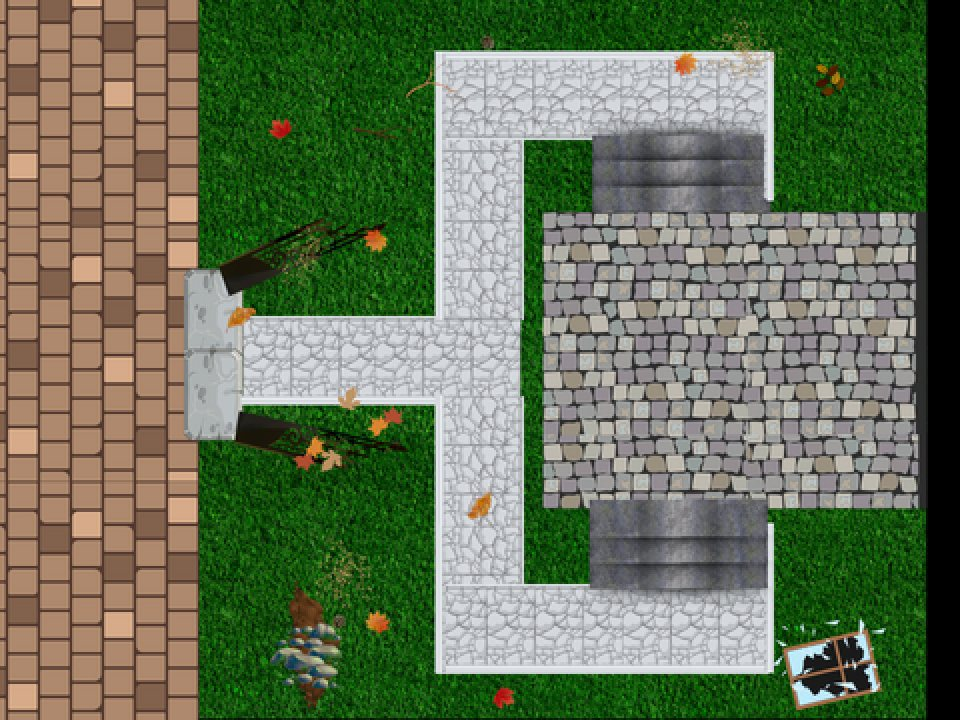
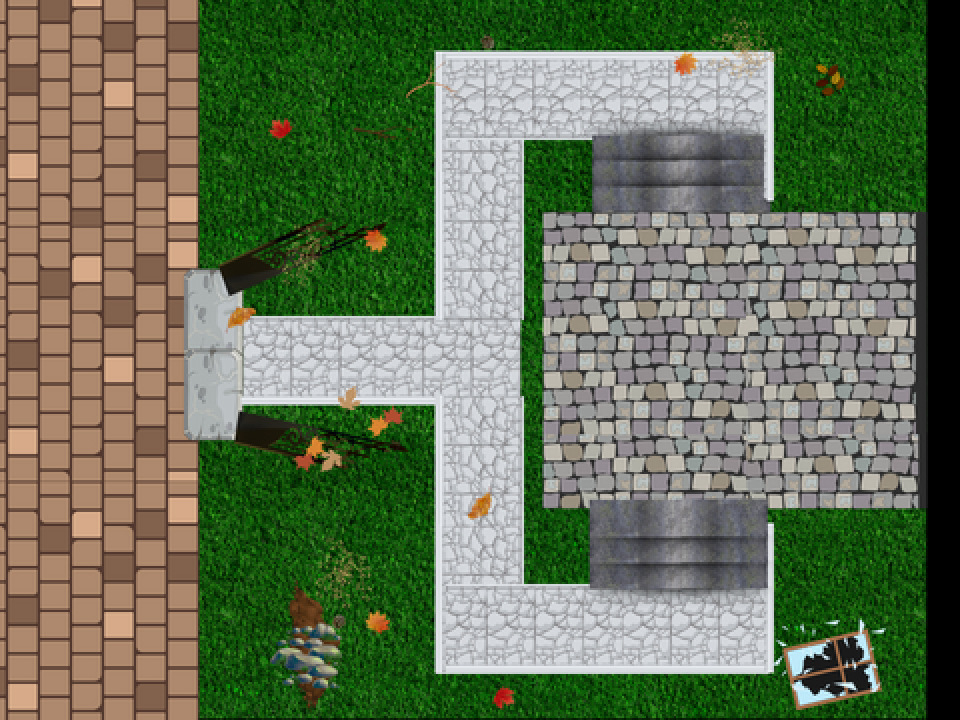
Sfondi più nitidi: JPG di qualità più alta, senza sottocampionamento del colore
Claude-Session: https://claude.ai/code/session_01DCoAoqz3TR9KuqDW3sa7M8

Changed region(s): [[0.375, 0.5806, 0.4062, 0.6111]]

diff --git a/js/gioco.js b/js/gioco.js
@@ -1055,6 +1055,7 @@
 
   function disegna(t) {
     ctx.setTransform(k, 0, 0, k, 0, 0);
+    ctx.imageSmoothingQuality = "high";
     ctx.fillStyle = "#000";
     ctx.fillRect(0, 0, W, H);
     if (stato === "titolo" || stato === "intro") { disegnaIntro(t); return; }

diff --git a/index.html b/index.html
@@ -131,6 +131,6 @@
   <script src="js/stanze.js?v=1"></script>
   <script src="js/maschere.js?v=1"></script>
   <script src="js/traduzioni.js?v=1"></script>
-  <script src="js/gioco.js?v=2"></script>
+  <script src="js/gioco.js?v=3"></script>
 </body>
 </html>

diff --git a/strumenti/estrai.py b/strumenti/estrai.py
@@ -55,10 +55,10 @@ def salva_png(im, nome):
     im.save(os.path.join(IMG, nome), optimize=True)
 
 
-def salva_jpg(im, nome, q=84):
+def salva_jpg(im, nome, q=93):
     sfondo = Image.new("RGB", im.size, (0, 0, 0))
     sfondo.paste(im, (0, 0), im)
-    sfondo.save(os.path.join(IMG, nome), quality=q, optimize=True, progressive=True)
+    sfondo.save(os.path.join(IMG, nome), quality=q, subsampling=0, optimize=True, progressive=True)
 
 
 def maschera(im, soglia=40):
@@ -207,7 +207,7 @@ def main():
 
     # Copertine
     for nome, file in [("Copertina 1 ", "copertina"), ("Copertina 2", "casa"), ("Copertina 3", "casa-fantasmi"), ("Copertina END", "fine")]:
-        salva_jpg(sulla_scena("Sfondo", nome), f"{file}.jpg", 86)
+        salva_jpg(sulla_scena("Sfondo", nome), f"{file}.jpg")
 
     # Sprite ritagliati: si salva l'immagine e dove sta il punto di rotazione
     def sprite_png(sprite, nome, file, x=0, y=0):
